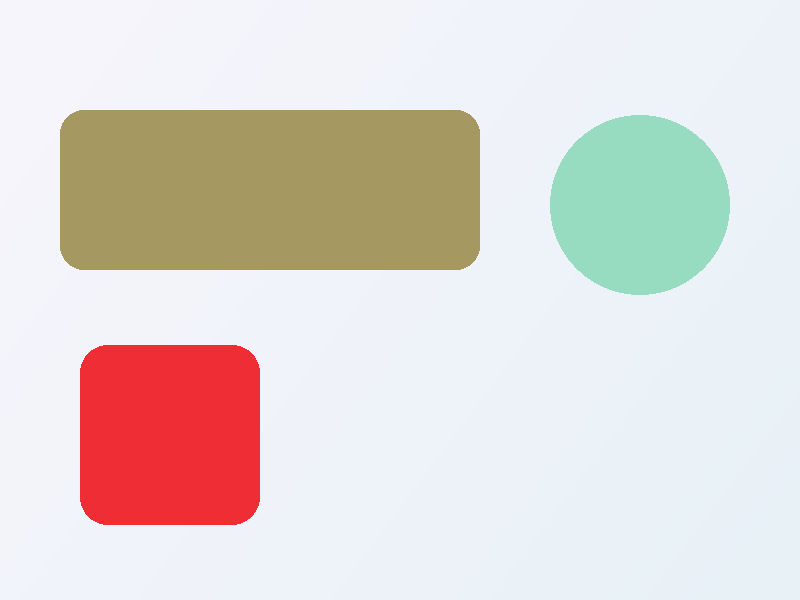
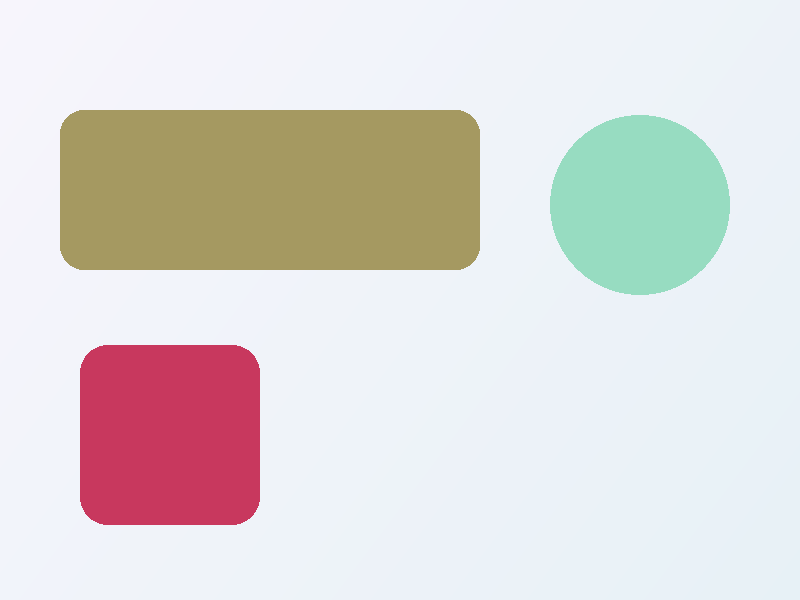
Reserve diagnostic colors by using violet for the source square
Keep source artwork distinct from red mismatch and amber tolerance indicators, and regenerate the documentation images.

Changed region(s): [[0.0938, 0.57, 0.3438, 0.9]]

diff --git a/documentation/docfx/guides/testing/generate-images.cs b/documentation/docfx/guides/testing/generate-images.cs
@@ -96,7 +96,7 @@ SKImage RenderScene(bool actual)
     canvas.DrawCircle(640, 205, 90, paint);
     if (actual)
     {
-        paint.Color = new SKColor(221, 91, 103);
+        paint.Color = new SKColor(145, 112, 188);
         canvas.DrawRoundRect(80, 345, 180, 180, 28, 28, paint);
     }
     return SKImage.FromBitmap(bitmap)

diff --git a/documentation/docfx/guides/testing/image-comparison.md b/documentation/docfx/guides/testing/image-comparison.md
@@ -34,11 +34,11 @@ dotnet add package SkiaSharp.Testing
 
 | Expected | Actual |
 | --- | --- |
-| ![Expected scene on a soft gradient.](images/expected.png) | ![Actual scene with changed blue, translucent green and an added rounded red square.](images/actual.png) |
+| ![Expected scene on a soft gradient.](images/expected.png) | ![Actual scene with changed blue, translucent green and an added rounded violet square.](images/actual.png) |
 
 Every example uses this scene. The rounded blue panel changes from RGB **(72, 104, 192)**
 to **(74, 106, 194)**, the green circle keeps RGB **(48, 185, 131)** but changes alpha
-from **255** to **128**, and the rounded red square is new. The actual circle is transparent;
+from **255** to **128**, and the rounded violet square is new. The actual circle is transparent;
 the page background shows through it.
 
 ```csharp
@@ -84,10 +84,10 @@ using var png = difference.Encode(SKEncodedImageFormat.Png, 100);
 File.WriteAllBytes("difference-tolerant.png", png.ToArray());
 ```
 
-![The blue panel is tolerated, alpha is excluded, and the red square still mismatches.](images/comparison-tolerant.png)
+![The blue panel is tolerated, alpha is excluded, and the violet square still mismatches.](images/comparison-tolerant.png)
 
 The +2 blue change is now amber-tinted. This example intentionally excludes alpha,
-so the green circle is not highlighted; the red square still mismatches. Always
+so the green circle is not highlighted; the violet square still mismatches. Always
 generate the diagnostic with the same options as the comparison.
 
 `null` disables a channel; zero requires an exact match. `Absolute` uses byte
